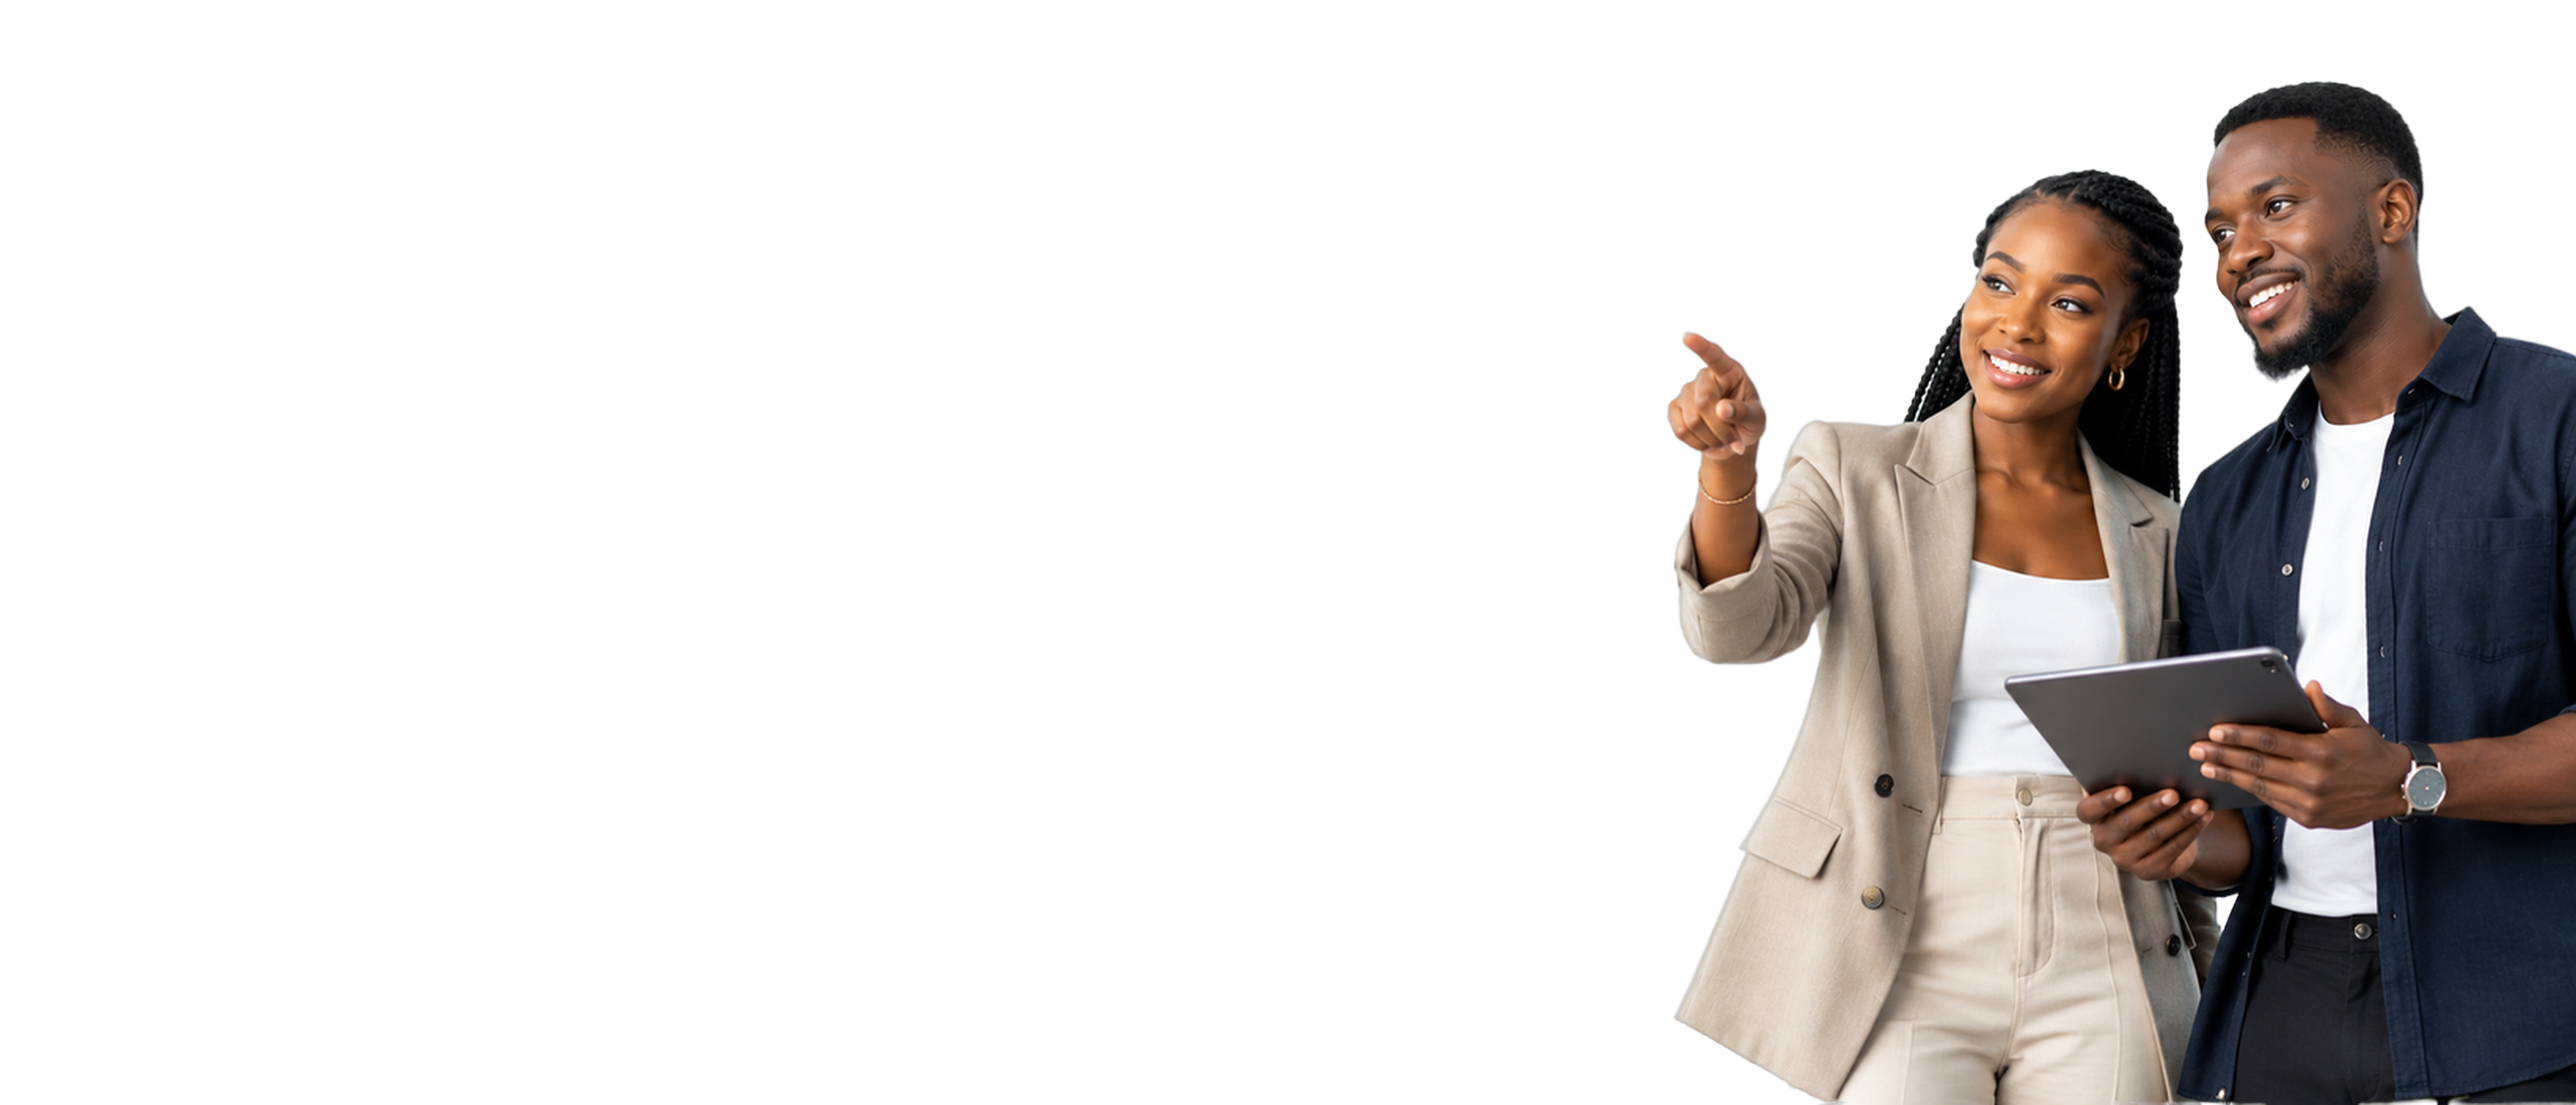
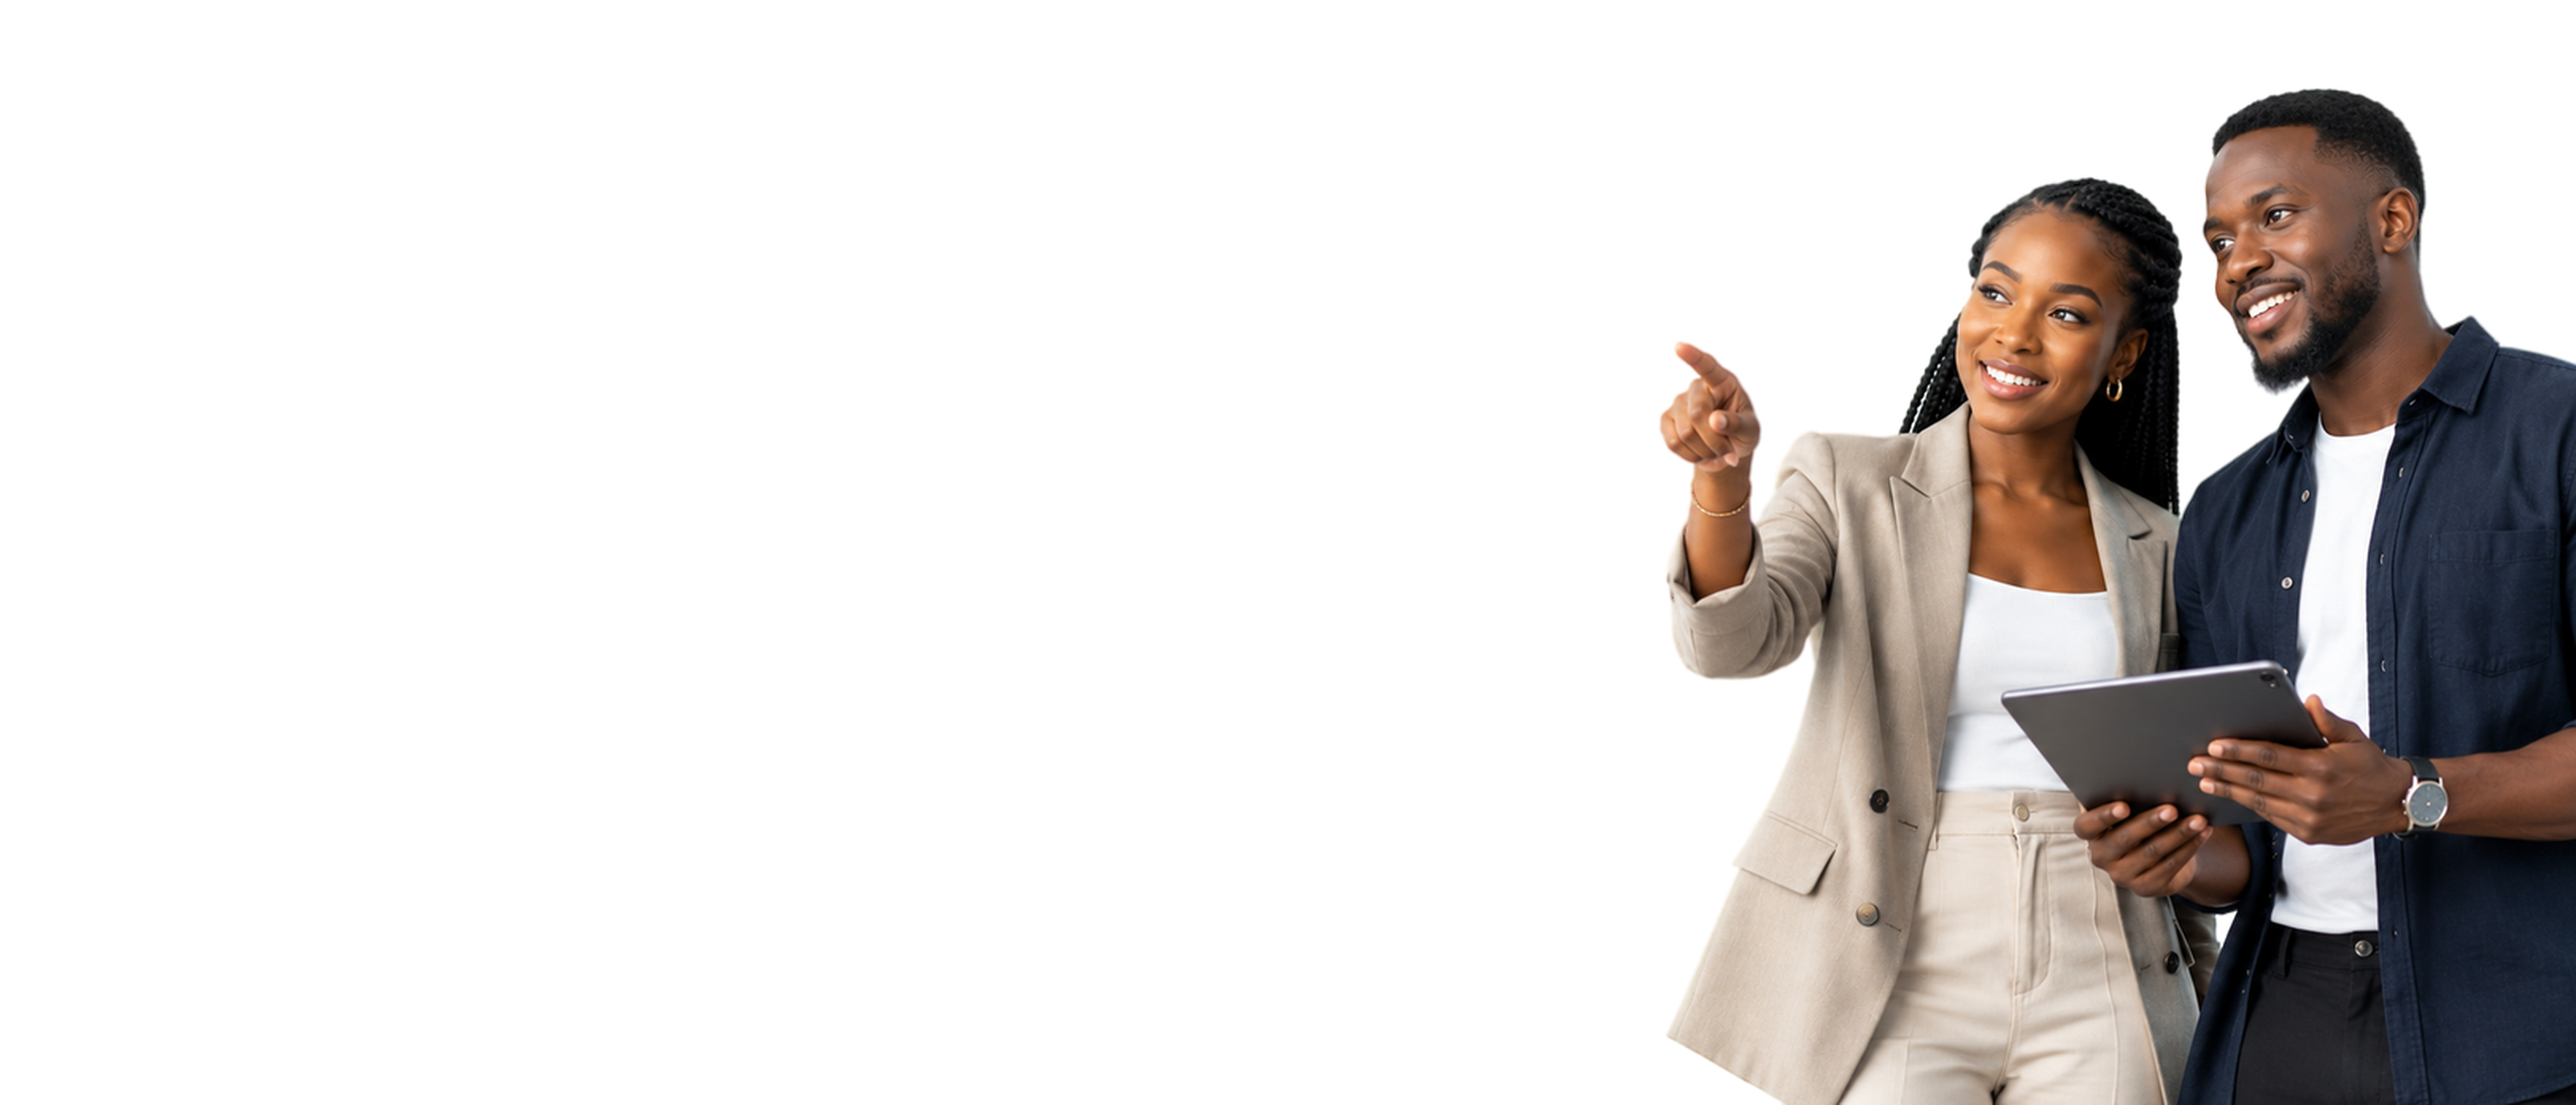
fix(ui): refine what-we-do CTA crop, add partner card hint, and use mobile inner hero SVG

diff --git a/components/inner-hero/CurvedHeroLayout.tsx b/components/inner-hero/CurvedHeroLayout.tsx
@@ -70,7 +70,7 @@ export interface CurvedHeroLayoutProps {
 
   /**
    * Path to the mobile curve SVG overlay.
-   * Default: "/images/inner-pages-hero-layout-mobile-svg.svg"
+   * Default: "/images/mobile-inner-page-svg.svg"
    */
   mobileSvgSrc?: string;
 
@@ -108,7 +108,7 @@ export function CurvedHeroLayout({
   mobileImageSrc: customMobileImageSrc,
   imageAlt: customImageAlt,
   svgSrc = "/images/inner-pages-hero-layou-svg.svg",
-  mobileSvgSrc = "/images/inner-pages-hero-layout-mobile-svg.svg",
+  mobileSvgSrc = "/images/mobile-inner-page-svg.svg",
   bgColor = "#003124",
   className = "",
   ctaText,
@@ -152,23 +152,16 @@ export function CurvedHeroLayout({
           className="object-cover object-center pointer-events-none"
         />
 
-        {/* Bottom Curved Wave Cut */}
+        {/* Bottom Curved Wave Cut (Orange #F88404 + Evergreen #003124 from mobile-inner-page-svg.svg) */}
         <div
-          className="absolute inset-x-0 -bottom-[1px] w-full h-[36px] sm:h-[48px] pointer-events-none z-10 overflow-hidden"
+          className="absolute inset-x-0 -bottom-[1px] w-full pointer-events-none z-10 overflow-hidden"
           aria-hidden="true"
         >
-          <svg
-            viewBox="0 420 1440 400"
-            preserveAspectRatio="none"
-            className="w-full h-full block"
-            fill="none"
-            xmlns="http://www.w3.org/2000/svg"
-          >
-            <path
-              d="M2053.91 555.314C2065.77 548.747 2075 532.987 2075 517.227L2075 -14.6749C2075 -50.135 2036.77 -69.835 2007.76 -52.7617L1175.86 455.5C996.554 565.82 784.293 611.787 573.35 590.774L-141.219 514.6C-167.587 513.287 -190 532.987 -190 559.253L-190 877.081C-190 898.094 -176.816 915.168 -157.04 920.421C56.5395 969.015 278.03 993.968 507.43 993.968C1075.66 996.595 1605.65 836.368 2053.91 555.314Z"
-              fill={bgColor}
-            />
-          </svg>
+          <img
+            src={mobileSvgSrc}
+            alt=""
+            className="w-full h-auto block translate-y-[42.8%] pointer-events-none select-none"
+          />
         </div>
       </div>
 

diff --git a/components/governance/PartnerCard.tsx b/components/governance/PartnerCard.tsx
@@ -104,6 +104,14 @@ export function PartnerCard({
             isActive ? "opacity-0" : "opacity-100"
           }`}
         >
+          <div className="pb-2 flex items-center justify-start w-full">
+            <span
+              className="text-[12px] sm:text-[12.5px] font-medium text-[#003124]/50 tracking-normal"
+              style={{ fontFamily: "var(--font-body, sans-serif)" }}
+            >
+              Hover or tap for details
+            </span>
+          </div>
           <div className="pt-2.5 border-t border-[rgba(0,49,36,0.16)]">
             <span
               className="text-[14.5px] sm:text-[15px] font-bold text-[#003124] tracking-tight block"
